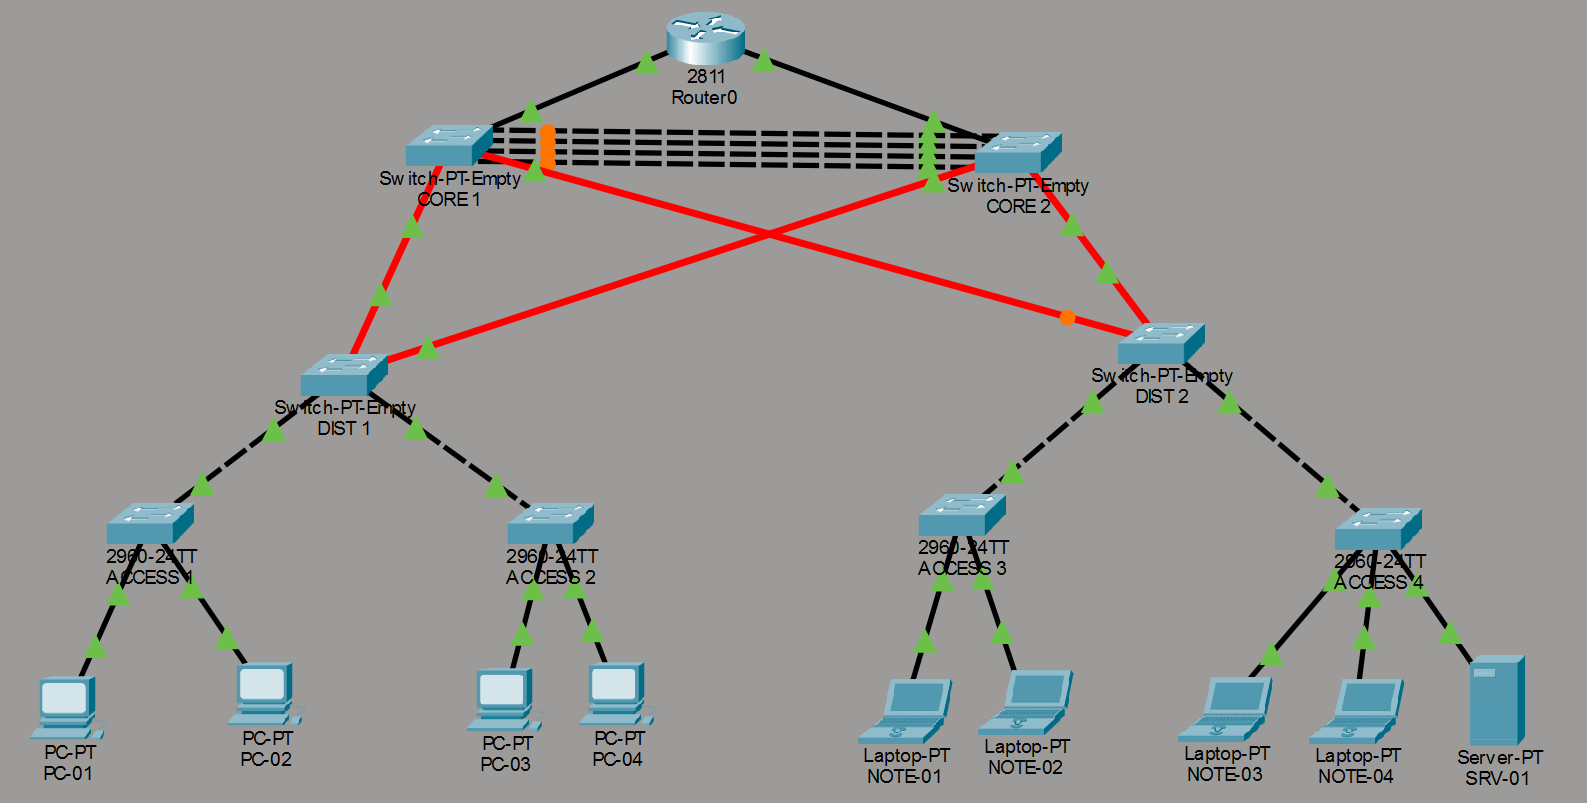
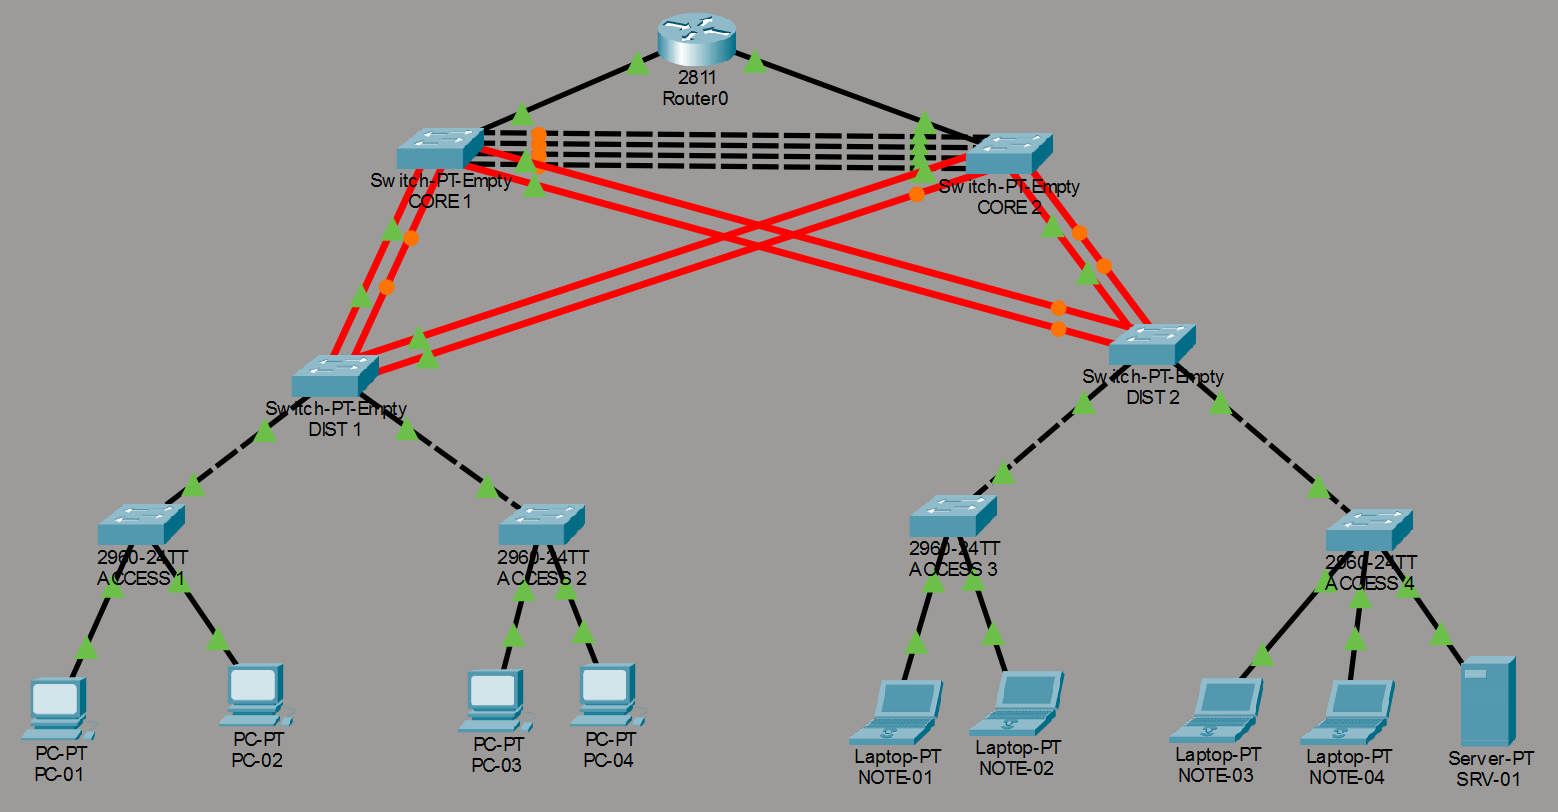
Atualiza topologia com 2 fibras por enlace e completa o teste de ping
- Diagrama novo: 8 cabos de fibra, 2 por enlace nucleo-distribuicao (2 Gbps)
- README ajustado para a agregacao de 2 Gbps do requisito 5
- Teste de ping cobrindo os 9 dispositivos, em 3 prints

diff --git a/README.md b/README.md
@@ -42,15 +42,19 @@ que pede apenas as ligações físicas.
 | DIST 2 | Switch-PT (modular) | Agrega os switches de borda ACCESS 3 e ACCESS 4 |
 
 Cada switch de distribuição sobe para **os dois** switches de núcleo, usando
-**interfaces de fibra óptica GigabitEthernet**. São 4 enlaces de fibra no total,
-um cabo por enlace:
+**interfaces de fibra óptica GigabitEthernet**. Cada enlace usa **2 fibras em
+paralelo**, fisicamente preparadas para uma agregação de link de **2 Gbps**
+(2 × 1 Gbps). São 4 enlaces e 8 cabos de fibra no total:
 
-| Enlace de fibra | Velocidade |
-|---|---|
-| CORE 1 ↔ DIST 1 | 1 Gbps |
-| CORE 1 ↔ DIST 2 | 1 Gbps |
-| CORE 2 ↔ DIST 1 | 1 Gbps |
-| CORE 2 ↔ DIST 2 | 1 Gbps |
+| Enlace de fibra | Cabos | Preparado para |
+|---|---|---|
+| CORE 1 ↔ DIST 1 | 2 | 2 Gbps |
+| CORE 1 ↔ DIST 2 | 2 | 2 Gbps |
+| CORE 2 ↔ DIST 1 | 2 | 2 Gbps |
+| CORE 2 ↔ DIST 2 | 2 | 2 Gbps |
+
+Como no núcleo, a agregação em si não foi ativada: o requisito pede apenas a
+ligação física preparada para ativação futura.
 
 Essa ligação cruzada garante que, se um switch de núcleo falhar, a distribuição
 continua alcançando o restante da rede.
@@ -88,9 +92,9 @@ Nove dispositivos, todos conectados com fio:
 
 ### 2.6 Sobre os indicadores âmbar no diagrama
 
-No diagrama, alguns enlaces aparecem com o indicador em **âmbar** em vez de verde:
-as ligações entre CORE 1 e CORE 2, do lado do CORE 1, e a ponta do enlace
-CORE 1 ↔ DIST 2 no lado do DIST 2.
+No diagrama, vários enlaces aparecem com o indicador em **âmbar** em vez de
+verde, tanto nos cabos entre CORE 1 e CORE 2 quanto em pontas dos enlaces de
+fibra que ligam o núcleo à distribuição.
 
 Isso não é erro de cabeamento. São portas colocadas em **bloqueio pelo Spanning
 Tree Protocol**. Como a topologia tem caminhos redundantes de propósito
@@ -123,9 +127,13 @@ distâncias maiores que o cobre e é imune a interferência eletromagnética, qu
 o cenário típico da ligação entre o núcleo e a distribuição, normalmente em
 salas ou andares diferentes.
 
-Cada switch de distribuição tem **dois caminhos independentes** até o núcleo,
-um para cada switch de núcleo. Isso é o que sustenta a disponibilidade da rede:
-a perda de um switch de núcleo ou de um cabo de fibra não isola a distribuição.
+São 2 fibras por enlace pela mesma lógica do núcleo: cada porta GigabitEthernet
+entrega 1 Gbps, então 2 enlaces somam os 2 Gbps pedidos no requisito 5.
+
+Além da banda, cada switch de distribuição tem **dois caminhos independentes**
+até o núcleo, um para cada switch de núcleo. Isso é o que sustenta a
+disponibilidade da rede: a perda de um switch de núcleo ou de um cabo de fibra
+não isola a distribuição.
 
 ### 3.4 Padrões 802.3 envolvidos
 
@@ -188,20 +196,30 @@ sem necessidade de roteamento.
 
 ### 5.1 Teste de conectividade
 
-O teste foi feito com o comando `ping` a partir do **PC-01**, escolhendo um
-destino ligado a cada switch de borda diferente, para provar que o tráfego
-atravessa as três camadas:
+O teste foi feito com o comando `ping` a partir do **PC-01**, alcançando todos
+os endereços da rede. Como os destinos estão espalhados pelos quatro switches
+de borda, o teste prova que o tráfego atravessa as três camadas da hierarquia.
 
 | Destino | Dispositivo | Switch de borda | Resultado |
 |---|---|---|---|
+| 192.168.10.11 | PC-01 | ACCESS 1 | 4 enviados, 4 recebidos, 0% de perda |
 | 192.168.10.12 | PC-02 | ACCESS 1 | 4 enviados, 4 recebidos, 0% de perda |
+| 192.168.10.13 | PC-03 | ACCESS 2 | 4 enviados, 4 recebidos, 0% de perda |
 | 192.168.10.14 | PC-04 | ACCESS 2 | 4 enviados, 4 recebidos, 0% de perda |
 | 192.168.10.21 | NOTE-01 | ACCESS 3 | 4 enviados, 4 recebidos, 0% de perda |
+| 192.168.10.22 | NOTE-02 | ACCESS 3 | 4 enviados, 4 recebidos, 0% de perda |
+| 192.168.10.23 | NOTE-03 | ACCESS 4 | 4 enviados, 4 recebidos, 0% de perda |
+| 192.168.10.24 | NOTE-04 | ACCESS 4 | 4 enviados, 4 recebidos, 0% de perda |
 | 192.168.10.100 | SRV-01 | ACCESS 4 | 4 enviados, 4 recebidos, 0% de perda |
 
-O ping para o PC-02 (mesmo switch de borda) responde em até 6 ms na primeira
-tentativa, tempo gasto com o ARP inicial. Os demais respondem em menos de 1 ms.
+**Nenhum pacote foi perdido em nenhum dos testes.** A maioria das respostas veio
+em menos de 1 ms; os primeiros pacotes de alguns destinos levaram alguns
+milissegundos a mais, tempo gasto com a resolução ARP inicial.
 
-Print do teste:
+Prints do teste:
 
-![Teste de ping](teste-ping.png)
+![Teste de ping — parte 1](teste-ping-1.png)
+
+![Teste de ping — parte 2](teste-ping-2.png)
+
+![Teste de ping — parte 3](teste-ping-3.png)
